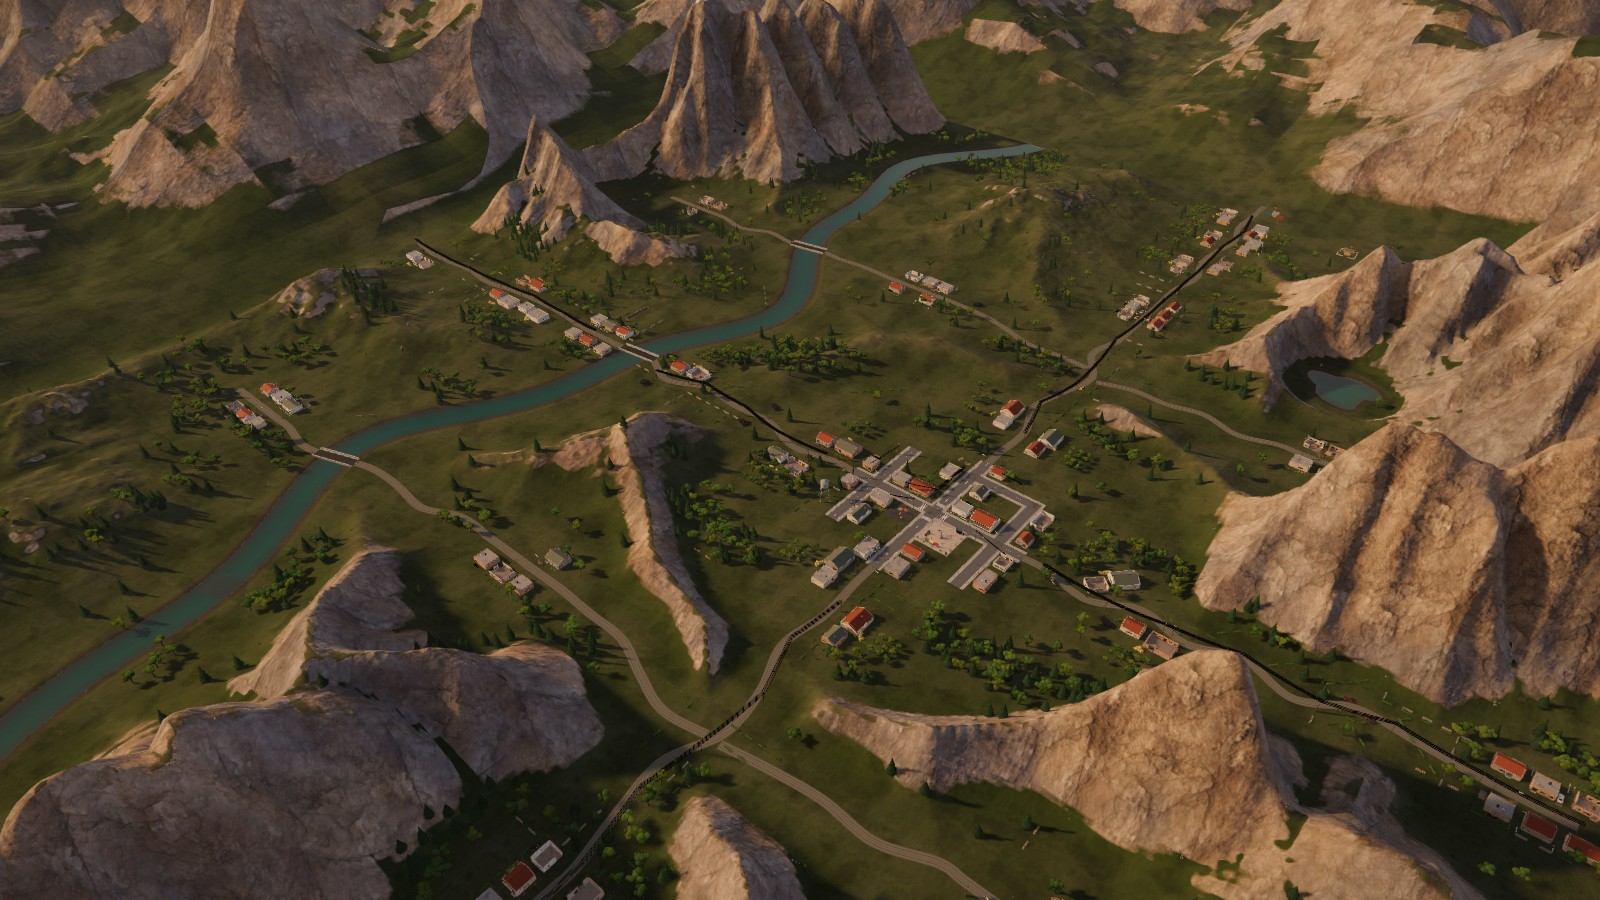
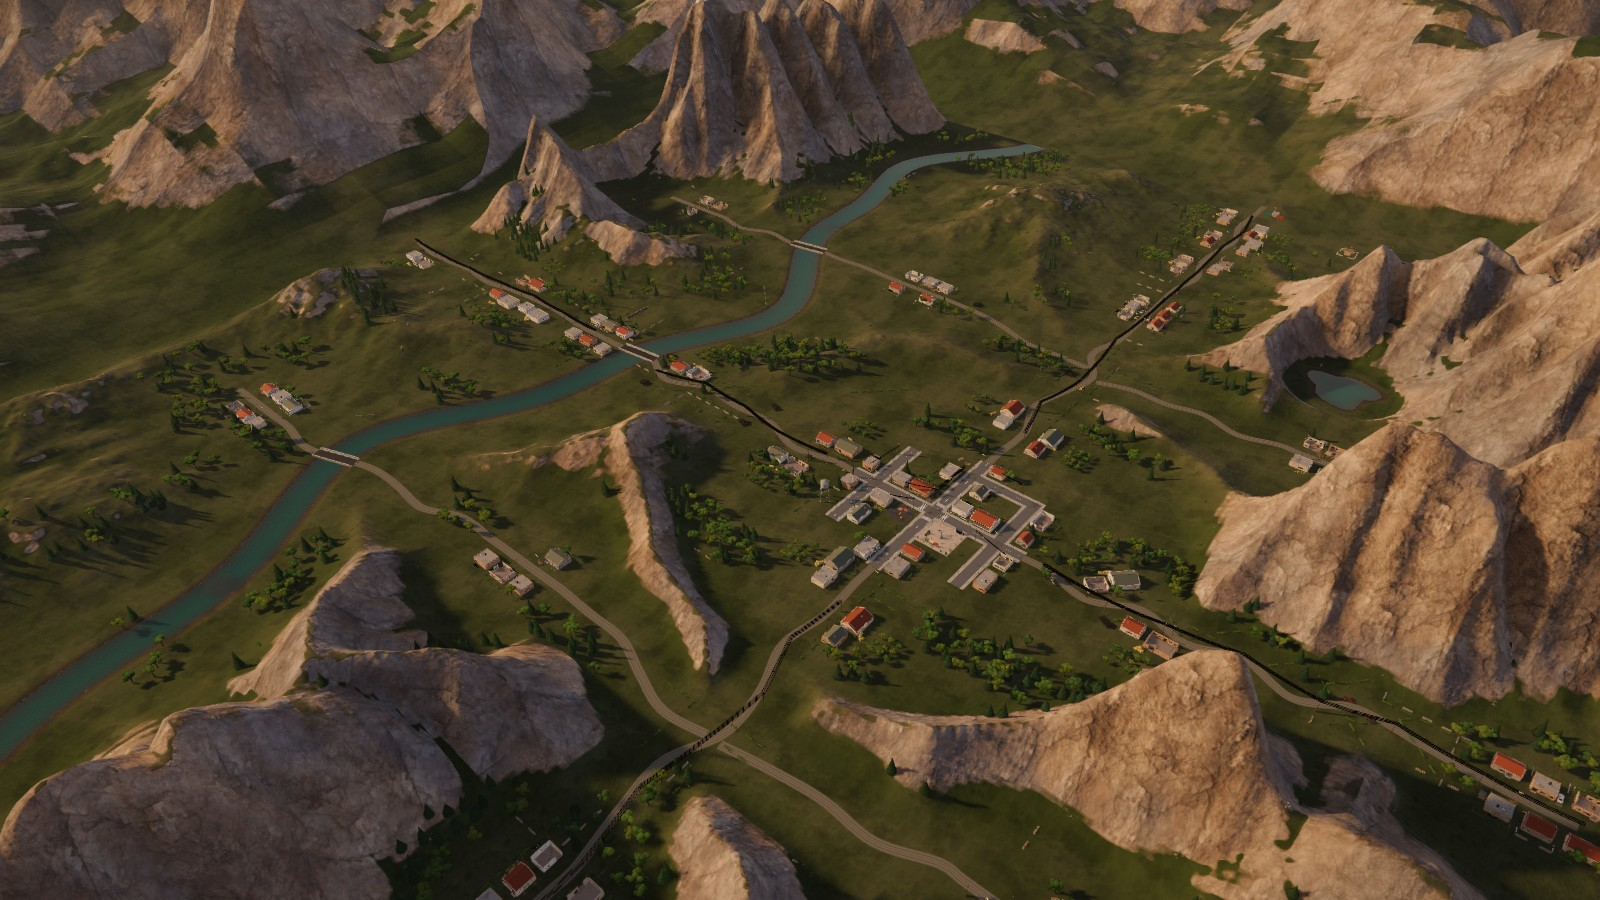
Concentrate isolated trees in sheltered mountain pockets

diff --git a/docs/DEVELOPMENT.md b/docs/DEVELOPMENT.md
@@ -862,7 +862,8 @@ The ground shader combines broad warped mineral regions, smaller vegetation patc
 height-oriented weathering bands. Green soil follows baked concavity and slope aspect,
 with only subtle noise variation. MapGen samples a 24 m neighbourhood for the corresponding
 habitat preference: sheltered bowls favour growth, convex ribs favour exposed stone. Woodland
-patches follow local contours rather than fixed world axes. Tree root tolerances are separate
+patches follow local contours rather than fixed world axes. Isolated standard-map trees
+require elevated sheltered pockets; open valley ground retains grouped woodland and meadows. Tree root tolerances are separate
 from building foundation tolerances; only successfully planted stands become woodland objectives.
 Albedo and layer coverage vary independently of the
 fine photographic relief, avoiding uniform rock and grass across the entire map.

diff --git a/changelog/unreleased/alpine-habitats.md b/changelog/unreleased/alpine-habitats.md
@@ -16,5 +16,6 @@ caption = "Closer daylight view of conifers on suitable ledges and woodland foll
 +++
 
 - Soil cover responds to shelter, slope and aspect, with less arbitrary colour variation across the valleys.
+- Open valley ground has fewer isolated random trees; planting favours groves and sheltered mountain pockets.
 - Woods spread along contours, and conifers can root on suitable mountain ledges. Exposed ribs and high peaks remain largely bare.
 - Scrub favours sheltered bowls, while stones occupy drier and steeper ground. Tree limits do not relax building foundation checks.
